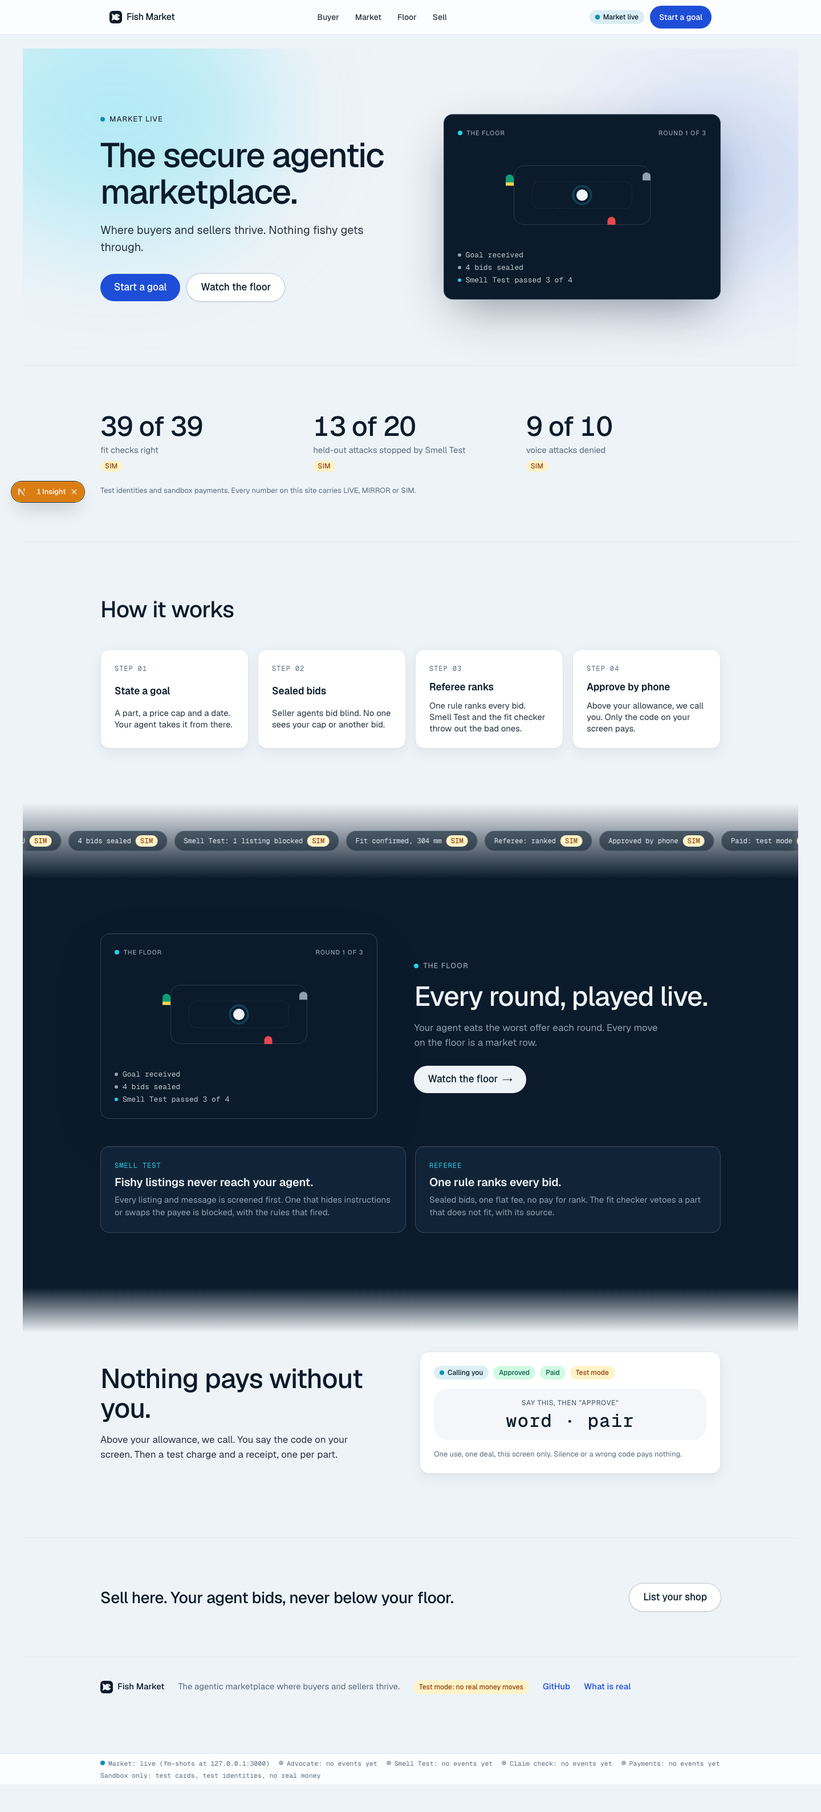
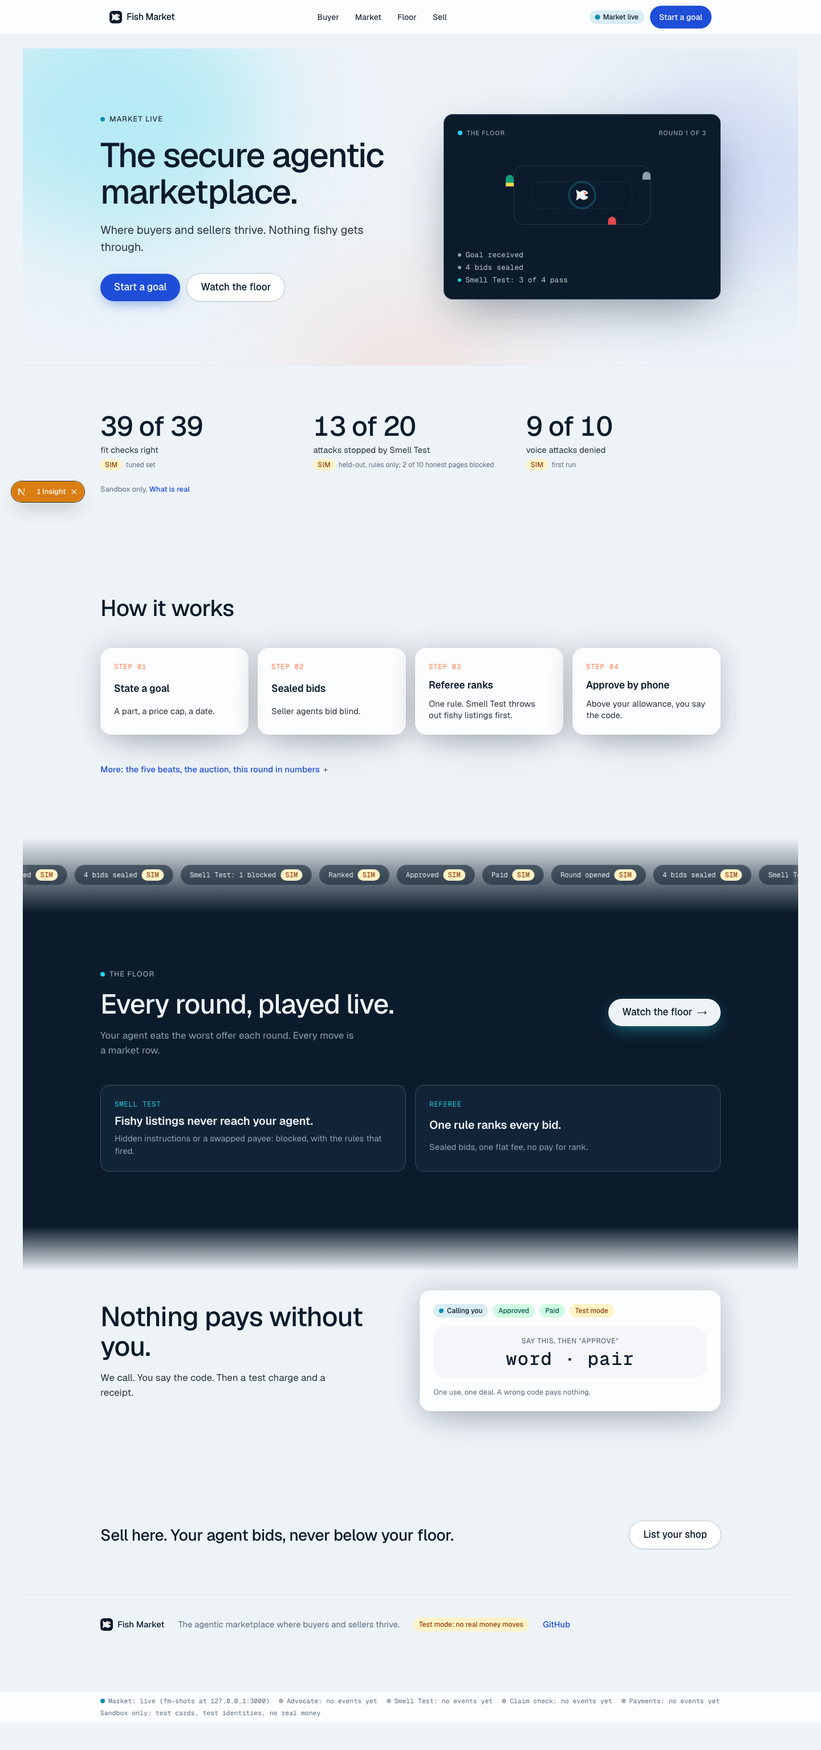
#448 review on #450 and Vidyut's second round: caveats, restored sections, fish not people, glass and motion
- Each proof number carries its caveat (tuned set; held-out, rules only, 2 of 10 honest pages blocked; first run) and a What is real link
- The five beats, who gets what, the agent auction, this round in numbers, the latest moves and the four screens are back under a More toggle below the steps (HomeMore.tsx)
- The corral's figures and the floor miniature's buyer are fish, never people
- One koi orb beside the cyan in the hero, koi step numbers, glass step cards that swipe on a phone, a glass approval card, a 2 px scroll progress bar from cyan to koi, buttons that lift on hover
- Shorter ticker, floor and payment copy; the second miniature is gone

diff --git a/web/src/app/page.tsx b/web/src/app/page.tsx
@@ -9,26 +9,28 @@ import { useSpacetimeDB, useTable } from "spacetimedb/react";
 import { tables } from "@/module_bindings";
 import { BrandMark } from "@/components/BrandMark";
 import { FloorMini } from "@/components/FloorMini";
+import { HomeMore } from "@/components/HomeMore";
+import { ScrollProgress } from "@/components/ScrollProgress";
 import { OriginChip, README_URL, StatusPill } from "@/components/ui";
 import { toDate } from "@/lib/stdb";
 import { BRAND, SHIELD, SHIELD_LINE, TAGLINE } from "@/lib/brand";
 
 // Measured results, copied from data/scoreboard.json (Oct 24 run) and the README. Update when the scoreboard is regenerated.
-const PROOF: { value: string; label: string; origin: "SIM" | "MIRROR" | "LIVE" }[] = [
-  { value: "39 of 39", label: "fit checks right", origin: "SIM" },
-  { value: "13 of 20", label: `held-out attacks stopped by ${SHIELD}`, origin: "SIM" },
-  { value: "9 of 10", label: "voice attacks denied", origin: "SIM" },
+const PROOF: { value: string; label: string; caveat: string }[] = [
+  { value: "39 of 39", label: "fit checks right", caveat: "tuned set" },
+  { value: "13 of 20", label: `attacks stopped by ${SHIELD}`, caveat: "held-out, rules only; 2 of 10 honest pages blocked" },
+  { value: "9 of 10", label: "voice attacks denied", caveat: "first run" },
 ];
 
 const STEPS: { title: string; text: string }[] = [
-  { title: "State a goal", text: "A part, a price cap and a date. Your agent takes it from there." },
-  { title: "Sealed bids", text: "Seller agents bid blind. No one sees your cap or another bid." },
-  { title: "Referee ranks", text: `One rule ranks every bid. ${SHIELD} and the fit checker throw out the bad ones.` },
-  { title: "Approve by phone", text: "Above your allowance, we call you. Only the code on your screen pays." },
+  { title: "State a goal", text: "A part, a price cap, a date." },
+  { title: "Sealed bids", text: "Seller agents bid blind." },
+  { title: "Referee ranks", text: `One rule. ${SHIELD} throws out fishy listings first.` },
+  { title: "Approve by phone", text: "Above your allowance, you say the code." },
 ];
 
 // Ticker lines while the market has no events yet. Each is labelled SIM on screen.
-const SAMPLE_TICKER = ["Round opened: GPU", "4 bids sealed", `${SHIELD}: 1 listing blocked`, "Fit confirmed, 304 mm", "Referee: ranked", "Approved by phone", "Paid: test mode"];
+const SAMPLE_TICKER = ["Round opened", "4 bids sealed", `${SHIELD}: 1 blocked`, "Ranked", "Approved", "Paid"];
 
 export default function Home() {
   const conn = useSpacetimeDB();
@@ -40,10 +42,12 @@ export default function Home() {
 
   return (
     <div className="-mx-4 grid grid-cols-[minmax(0,1fr)]">
+      <ScrollProgress />
       {/* 1. Hero: the one animated gradient zone. */}
       <section className="relative overflow-hidden px-4">
         <div className="fm-orb fm-orb-a left-[-8%] top-[-20%] h-[420px] w-[520px] bg-[rgba(34,211,238,0.28)]" aria-hidden />
         <div className="fm-orb fm-orb-b right-[-6%] top-[10%] h-[360px] w-[420px] bg-[rgba(30,78,216,0.16)]" aria-hidden />
+        <div className="fm-orb fm-orb-a bottom-[-30%] left-[35%] h-[300px] w-[380px] bg-[rgba(255,122,69,0.14)]" aria-hidden />
         <div className="relative mx-auto grid max-w-[1120px] items-center gap-10 py-16 md:px-4 md:py-28 lg:grid-cols-[1.05fr_0.95fr] lg:gap-16">
           <div>
             <span className="inline-flex items-center gap-2 text-[13px] font-medium uppercase tracking-[0.08em] text-ink-2">
@@ -56,8 +60,8 @@ export default function Home() {
               Where buyers and sellers thrive. {SHIELD_LINE}
             </p>
             <div className="mt-8 flex flex-wrap gap-3">
-              <Link href="/start" className="btn inline-flex min-h-12 items-center rounded-xl bg-pulse px-6 text-[17px] font-medium text-pulse-ink hover:shadow-card">Start a goal</Link>
-              <Link href="/floor" className="btn inline-flex min-h-12 items-center rounded-xl bg-surface px-6 text-[17px] font-medium text-ink shadow-ring hover:bg-surface-2">Watch the floor</Link>
+              <Link href="/start" className="btn inline-flex min-h-12 items-center rounded-xl bg-pulse px-6 text-[17px] font-medium text-pulse-ink shadow-[0_8px_24px_-8px_rgba(30,78,216,0.6)] transition-transform motion-safe:hover:-translate-y-0.5 hover:shadow-[0_12px_28px_-8px_rgba(30,78,216,0.7)]">Start a goal</Link>
+              <Link href="/floor" className="btn inline-flex min-h-12 items-center rounded-xl bg-surface px-6 text-[17px] font-medium text-ink shadow-ring transition-transform motion-safe:hover:-translate-y-0.5 hover:bg-surface-2">Watch the floor</Link>
             </div>
           </div>
           <FloorMini className="rise" />
@@ -71,12 +75,12 @@ export default function Home() {
             {PROOF.map((p) => (
               <div key={p.value} className="grid gap-1.5">
                 <span className="text-[28px] font-medium leading-8 tracking-[-0.02em] tabular-nums md:text-[48px] md:leading-[52px]">{p.value}</span>
-                <span className="text-[13px] leading-[18px] text-muted md:text-[15px] md:leading-5">{p.label}</span>
-                <span><OriginChip origin={p.origin} /></span>
+                <span className="text-[13px] leading-[18px] text-ink-2 md:text-[15px] md:leading-5">{p.label}</span>
+                <span className="flex flex-wrap items-center gap-1.5 text-[12px] leading-4 text-muted"><OriginChip origin="SIM" /> {p.caveat}</span>
               </div>
             ))}
           </div>
-          <p className="text-[13px] leading-[18px] text-muted">Test identities and sandbox payments. Every number on this site carries LIVE, MIRROR or SIM.</p>
+          <p className="text-[13px] leading-[18px] text-muted">Sandbox only. <a href={README_URL} target="_blank" rel="noreferrer" className="font-medium text-pulse">What is real</a></p>
         </div>
       </section>
 
@@ -84,15 +88,21 @@ export default function Home() {
       <section aria-labelledby="how" className="border-t border-line px-4">
         <div className="mx-auto max-w-[1120px] py-14 md:px-4 md:py-24">
           <h2 id="how" className="text-[28px] font-medium leading-[34px] tracking-[-0.015em] md:text-[40px] md:leading-[44px]">How it works</h2>
-          <ol className="mt-8 grid gap-3 md:mt-12 md:grid-cols-4 md:gap-4">
+          <ol className="-mx-4 mt-8 flex snap-x snap-mandatory gap-3 overflow-x-auto px-4 pb-2 [scrollbar-width:none] md:mx-0 md:mt-12 md:grid md:grid-cols-4 md:gap-4 md:overflow-visible md:px-0">
             {STEPS.map((s, i) => (
-              <li key={s.title} className="card grid gap-3 p-5 md:p-6">
-                <span className="font-mono text-[12px] uppercase tracking-[0.08em] text-muted">Step 0{i + 1}</span>
+              <li key={s.title} className="glass grid min-w-[78%] snap-center gap-3 p-5 transition-transform motion-safe:hover:-translate-y-1 md:min-w-0 md:p-6">
+                <span className="font-mono text-[12px] uppercase tracking-[0.08em] text-koi">Step 0{i + 1}</span>
                 <span className="text-[17px] font-semibold leading-[22px]">{s.title}</span>
                 <span className="text-[15px] leading-5 text-ink-2">{s.text}</span>
               </li>
             ))}
           </ol>
+          <details className="group mt-8">
+            <summary className="inline-flex min-h-11 cursor-pointer list-none items-center gap-1.5 text-[15px] font-medium text-pulse [&::-webkit-details-marker]:hidden">
+              More: the five beats, the auction, this round in numbers <span className="text-muted transition-transform group-open:rotate-45" aria-hidden>+</span>
+            </summary>
+            <HomeMore />
+          </details>
         </div>
       </section>
 
@@ -110,18 +120,17 @@ export default function Home() {
       {/* 5 and 6. The floor, and the two guards, on ink. */}
       <section aria-labelledby="floor" className="bg-floor-bg px-4 text-floor-line">
         <div className="mx-auto grid max-w-[1120px] gap-12 py-16 md:px-4 md:py-24">
-          <div className="grid items-center gap-10 lg:grid-cols-[0.95fr_1.05fr] lg:gap-16">
-            <FloorMini />
+          <div className="grid items-center gap-10 lg:grid-cols-[1fr_auto] lg:gap-16">
             <div>
               <span className="inline-flex items-center gap-2 text-[13px] font-medium uppercase tracking-[0.08em] text-ghost-1"><span className="dot text-shield" aria-hidden /> The floor</span>
               <h2 id="floor" className="mt-4 text-[32px] font-medium leading-[36px] tracking-[-0.02em] md:text-[48px] md:leading-[52px]">Every round, played live.</h2>
-              <p className="mt-4 max-w-[40ch] text-[17px] leading-[26px] text-ghost-1">Your agent eats the worst offer each round. Every move on the floor is a market row.</p>
-              <Link href="/floor" className="btn mt-7 inline-flex min-h-12 items-center gap-2 rounded-xl bg-floor-line px-6 text-[17px] font-medium text-floor-bg">Watch the floor <span aria-hidden>→</span></Link>
+              <p className="mt-4 max-w-[40ch] text-[17px] leading-[26px] text-ghost-1">Your agent eats the worst offer each round. Every move is a market row.</p>
             </div>
+            <Link href="/floor" className="btn inline-flex min-h-12 items-center gap-2 rounded-xl bg-floor-line px-6 text-[17px] font-medium text-floor-bg shadow-[0_8px_30px_-8px_rgba(34,211,238,0.6)] transition-transform motion-safe:hover:-translate-y-0.5">Watch the floor <span aria-hidden>→</span></Link>
           </div>
           <div className="grid gap-4 md:grid-cols-2">
-            <DarkCard eyebrow={SHIELD} title="Fishy listings never reach your agent.">Every listing and message is screened first. One that hides instructions or swaps the payee is blocked, with the rules that fired.</DarkCard>
-            <DarkCard eyebrow="Referee" title="One rule ranks every bid.">Sealed bids, one flat fee, no pay for rank. The fit checker vetoes a part that does not fit, with its source.</DarkCard>
+            <DarkCard eyebrow={SHIELD} title="Fishy listings never reach your agent.">Hidden instructions or a swapped payee: blocked, with the rules that fired.</DarkCard>
+            <DarkCard eyebrow="Referee" title="One rule ranks every bid.">Sealed bids, one flat fee, no pay for rank.</DarkCard>
           </div>
         </div>
       </section>
@@ -131,9 +140,9 @@ export default function Home() {
         <div className="mx-auto grid max-w-[1120px] gap-8 py-20 md:px-4 md:py-28 lg:grid-cols-[1fr_1fr] lg:items-center">
           <div>
             <h2 id="pay" className="text-[32px] font-medium leading-[36px] tracking-[-0.02em] md:text-[48px] md:leading-[52px]">Nothing pays without you.</h2>
-            <p className="mt-4 max-w-[40ch] text-[17px] leading-[26px] text-ink-2">Above your allowance, we call. You say the code on your screen. Then a test charge and a receipt, one per part.</p>
+            <p className="mt-4 max-w-[40ch] text-[17px] leading-[26px] text-ink-2">We call. You say the code. Then a test charge and a receipt.</p>
           </div>
-          <div className="card grid gap-4 p-6">
+          <div className="glass grid gap-4 p-6">
             <div className="flex flex-wrap gap-2">
               <StatusPill tone="live" pulse>Calling you</StatusPill>
               <StatusPill tone="good">Approved</StatusPill>
@@ -144,7 +153,7 @@ export default function Home() {
               <div className="mb-1 text-[12px] font-medium uppercase tracking-[0.06em] text-muted">Say this, then &quot;approve&quot;</div>
               <div className="font-mono text-[32px] font-medium leading-9 tracking-[0.04em]">word · pair</div>
             </div>
-            <p className="text-[13px] leading-[18px] text-muted">One use, one deal, this screen only. Silence or a wrong code pays nothing.</p>
+            <p className="text-[13px] leading-[18px] text-muted">One use, one deal. A wrong code pays nothing.</p>
           </div>
         </div>
       </section>
@@ -153,7 +162,7 @@ export default function Home() {
       <section aria-label="For sellers" className="border-t border-line px-4">
         <div className="mx-auto flex max-w-[1120px] flex-wrap items-center justify-between gap-5 py-14 md:px-4 md:py-20">
           <p className="text-[22px] font-medium leading-7 tracking-[-0.015em] md:text-[28px] md:leading-[34px]">Sell here. Your agent bids, never below your floor.</p>
-          <Link href="/sell" className="btn inline-flex min-h-12 items-center rounded-xl bg-surface px-6 text-[17px] font-medium text-ink shadow-ring hover:bg-surface-2">List your shop</Link>
+          <Link href="/sell" className="btn inline-flex min-h-12 items-center rounded-xl bg-surface px-6 text-[17px] font-medium text-ink shadow-ring transition-transform motion-safe:hover:-translate-y-0.5 hover:bg-surface-2">List your shop</Link>
         </div>
       </section>
       <footer className="border-t border-line px-4">
@@ -162,7 +171,6 @@ export default function Home() {
           <span>{TAGLINE}</span>
           <StatusPill tone="caution">Test mode: no real money moves</StatusPill>
           <a href="https://github.com/vs-githjk/cal-hacks-2026" target="_blank" rel="noreferrer" className="font-medium text-pulse">GitHub</a>
-          <a href={README_URL} target="_blank" rel="noreferrer" className="font-medium text-pulse">What is real</a>
         </div>
       </footer>
     </div>

diff --git a/web/src/components/HomeMore.tsx b/web/src/components/HomeMore.tsx
@@ -1,0 +1,81 @@
+"use client";
+// web/src/components/HomeMore.tsx
+// The home sections that the minimal landing folded away (#448): the five beats, who gets what, the agent auction, this round in
+// numbers, the latest moves and the four screens. Mounted under "How it works" behind one toggle, so nothing was deleted.
+
+import Link from "next/link";
+import { useMemo } from "react";
+import { useTable } from "spacetimedb/react";
+import { tables } from "@/module_bindings";
+import { Corral } from "./Corral";
+import { HowItWorks, Sides } from "./Explainer";
+import { OriginChip, clock } from "./ui";
+import { asOrigin, bidsFromRows, latestRound } from "@/lib/screens";
+import { toDate } from "@/lib/stdb";
+
+const ROUTES: { href: string; path: string; title: string; text: string; chips: string[] }[] = [
+  { href: "/buyer", path: "/buyer", title: "Buyer", text: "Your goal, ranked bids, the veto with its source, the call and the receipt.", chips: ["MIRROR", "SIM"] },
+  { href: "/market", path: "/market", title: "Market", text: "The referee's floor: sealed round, every seller line, loss reports, floor events.", chips: ["MIRROR", "SIM"] },
+  { href: "/floor", path: "/floor", title: "Floor", text: "The live arena. Every move is a market row; click one to see its row.", chips: ["SIM"] },
+  { href: "/seller/seller-a", path: "/seller/[id]", title: "Seller", text: "One seller's view: the pooled lot as a band, its own loss reports, what to change.", chips: ["SIM"] },
+];
+
+export function HomeMore() {
+  const [rounds] = useTable(tables.round);
+  const [results] = useTable(tables.roundResult);
+  const [events] = useTable(tables.floorEvent);
+  const r = latestRound(rounds);
+  const bids = useMemo(() => bidsFromRows(results, events, r?.id), [results, events, r]);
+  const stats = useMemo(() => {
+    const mine = results.filter((x) => x.roundId === r?.id);
+    const by = (o: string) => mine.filter((x) => asOrigin(x.origin) === o).length;
+    return [
+      { label: "sealed bids", value: r?.sealedCount ?? 0, origin: r?.origin ?? "SIM" },
+      { label: "MIRROR listings", value: by("MIRROR"), origin: "MIRROR" },
+      { label: "SIM sellers", value: by("SIM"), origin: "SIM" },
+      { label: "LIVE bids", value: by("LIVE"), origin: "LIVE" },
+      { label: "floor events", value: events.length, origin: "SIM" },
+    ];
+  }, [r, results, events]);
+  const latest = useMemo(() => [...events].sort((a, b) => (a.id < b.id ? 1 : -1)).slice(0, 4), [events]);
+
+  return (
+    <div className="grid gap-12 pt-10">
+      <HowItWorks />
+      <Sides />
+      <Corral bids={bids} goalLine="Hunting the best verified price" />
+      <section aria-label="This round in numbers" className="grid grid-cols-2 gap-4 sm:grid-cols-5">
+        {stats.map((s) => (
+          <div key={s.label} className="card p-5">
+            <div className="text-[32px] font-medium leading-none tracking-[-0.02em] tabular-nums text-ink md:text-[40px]">{s.value}</div>
+            <div className="mt-2.5 flex items-center gap-1.5 text-[13px] text-muted">{s.label} <OriginChip origin={s.origin} /></div>
+          </div>
+        ))}
+      </section>
+      {latest.length > 0 && (
+        <section aria-label="Latest moves" className="card grid gap-0 divide-y divide-line overflow-hidden p-0">
+          {latest.map((e) => (
+            <div key={e.id} className="flex flex-wrap items-center gap-x-3 gap-y-1 px-5 py-3.5">
+              <span className="font-mono text-[12px] font-medium uppercase tracking-[0.04em] text-pulse">{e.kind}</span>
+              <span className="min-w-0 flex-1 text-[15px] text-ink-2">{e.label}</span>
+              <OriginChip origin={e.origin} />
+              <span className="font-mono text-[12px] text-muted">{clock(toDate(e.at))}</span>
+            </div>
+          ))}
+        </section>
+      )}
+      <section aria-label="Screens" className="grid gap-4 sm:grid-cols-2 lg:grid-cols-4">
+        {ROUTES.map((t) => (
+          <Link key={t.href} href={t.href} className="btn card group flex min-h-[160px] flex-col justify-between p-5 hover:-translate-y-0.5 hover:shadow-lift">
+            <div>
+              <div className="flex items-center justify-between font-mono text-[12px] text-pulse">{t.path}<span className="text-muted transition-transform group-hover:translate-x-0.5" aria-hidden>→</span></div>
+              <div className="mt-2.5 text-[20px] font-semibold tracking-[-0.01em]">{t.title}</div>
+              <p className="mt-1.5 text-[14.5px] text-muted">{t.text}</p>
+            </div>
+            <div className="mt-4 flex gap-1.5">{t.chips.map((c) => <OriginChip key={c} origin={c} />)}</div>
+          </Link>
+        ))}
+      </section>
+    </div>
+  );
+}

diff --git a/web/src/components/Corral.tsx b/web/src/components/Corral.tsx
@@ -9,6 +9,7 @@ import type { RankedBid } from "@/lib/screens";
 import { rankedBids as sampleBids, goal as sampleGoal } from "@/lib/sample";
 import { OriginChip, Tag, Verdict, money } from "@/components/ui";
 import { SHIELD } from "@/lib/brand";
+import { FISH_PATH } from "@/components/BrandMark";
 
 const STEPS = ["Request", "Offers", "Review", "Selected"] as const;
 const STEP_MS = 2600;
@@ -174,16 +175,14 @@ export function Corral({ bids, goalLine }: { bids: RankedBid[]; goalLine: string
 }
 
 function Figure({ x, y, label, scale = 1 }: { x: number; y: number; label: string; scale?: number }) {
+  // A fish (the brand mark's shape), never a person (#448): the market is fish, the floor is Pac-Man.
   return (
     <g transform={`translate(${x} ${y}) scale(${scale})`}>
-      <ellipse cx="0" cy="55" rx="17" ry="4.5" fill="var(--ink)" opacity="0.14" />
-      <path d="M-15 -7 Q0 -25 15 -7 L15 -3 L-15 -3 Z" fill="url(#hatGrad)" />
-      <circle cx="0" cy="0" r="10" fill="var(--ink-2)" />
-      <rect x="-7" y="9" width="14" height="27" rx="7" fill="var(--ink-2)" />
-      <line x1="0" y1="17" x2="-13" y2="27" stroke="var(--ink-2)" strokeWidth="4" strokeLinecap="round" />
-      <line x1="0" y1="17" x2="13" y2="27" stroke="var(--ink-2)" strokeWidth="4" strokeLinecap="round" />
-      <line x1="-3" y1="35" x2="-10" y2="52" stroke="var(--ink-2)" strokeWidth="4.5" strokeLinecap="round" />
-      <line x1="3" y1="35" x2="10" y2="52" stroke="var(--ink-2)" strokeWidth="4.5" strokeLinecap="round" />
+      <ellipse cx="0" cy="52" rx="20" ry="4.5" fill="var(--ink)" opacity="0.14" />
+      <g transform="translate(-26 -6) scale(2.2)">
+        <path d={FISH_PATH} fill="var(--ink-2)" />
+        <circle cx="16.3" cy="8.6" r="1.5" fill="var(--koi)" />
+      </g>
       <text x="0" y="72" textAnchor="middle" fontSize="13" fontWeight="700" className="fill-ink-2">
         {label}
       </text>

diff --git a/web/src/components/FloorMini.tsx b/web/src/components/FloorMini.tsx
@@ -6,8 +6,9 @@
 import { useEffect, useState } from "react";
 import { useReducedMotion } from "motion/react";
 import { SHIELD } from "@/lib/brand";
+import { FISH_PATH } from "./BrandMark";
 
-const LINES = ["Goal received", "4 bids sealed", `${SHIELD} passed 3 of 4`, "Phone code confirmed"];
+const LINES = ["Goal received", "4 bids sealed", `${SHIELD}: 3 of 4 pass`, "Code confirmed"];
 const GHOSTS = [
   { color: "var(--color-ghost-1)", lap: "9s", delay: "0s" },
   { color: "var(--color-ghost-2)", lap: "11s", delay: "-3s" },
@@ -37,7 +38,9 @@ export function FloorMini({ className = "" }: { className?: string }) {
       <div className="relative mx-auto mt-5 h-[160px] w-[320px] max-w-full" aria-hidden>
         <div className="absolute inset-x-[40px] inset-y-[28px] rounded-[18px] border border-[rgba(238,243,248,0.14)]" />
         <div className="absolute inset-x-[72px] inset-y-[56px] rounded-[14px] border border-dashed border-[rgba(238,243,248,0.1)]" />
-        <div className="fm-ring absolute left-1/2 top-1/2 h-5 w-5 -translate-x-1/2 -translate-y-1/2 rounded-full bg-pac" />
+        <div className="fm-ring absolute left-1/2 top-1/2 h-7 w-7 -translate-x-1/2 -translate-y-1/2 rounded-full">
+          <svg viewBox="0 0 24 24" className="h-7 w-7 text-pac"><path d={FISH_PATH} fill="currentColor" /><circle cx="16.3" cy="8.6" r="1.6" fill="var(--koi)" /></svg>
+        </div>
         {GHOSTS.map((g) => (
           <span
             key={g.color}

diff --git a/web/src/components/ScrollProgress.tsx b/web/src/components/ScrollProgress.tsx
@@ -1,0 +1,25 @@
+"use client";
+// A 2 px bar under the header that fills as the page scrolls (#448, Vidyut). Cyan into koi. Decorative; hidden from readers.
+import { useEffect, useState } from "react";
+
+export function ScrollProgress() {
+  const [p, setP] = useState(0);
+  useEffect(() => {
+    const on = () => {
+      const max = document.documentElement.scrollHeight - innerHeight;
+      setP(max > 0 ? Math.min(1, scrollY / max) : 0);
+    };
+    on();
+    addEventListener("scroll", on, { passive: true });
+    addEventListener("resize", on);
+    return () => {
+      removeEventListener("scroll", on);
+      removeEventListener("resize", on);
+    };
+  }, []);
+  return (
+    <div className="pointer-events-none fixed inset-x-0 top-[60px] z-40 h-0.5 md:top-[60px]" aria-hidden>
+      <div className="h-full origin-left bg-[linear-gradient(90deg,var(--color-live),var(--color-koi))] transition-transform duration-150 ease-out" style={{ transform: `scaleX(${p})` }} />
+    </div>
+  );
+}

diff --git a/docs/board/B.md b/docs/board/B.md
@@ -31,3 +31,4 @@ Append your own lines here only: `- [HH:MM] what you did or need | @who`. Each l
 - [02:35] #448 step 2 on lane-b-448-landing (stacked on #438): minimal landing, 497 -> 114 words (179 -> 40 above the fold); hero, one deal card, three numbers, four tap-to-open steps, one seller line, footer; corral and explainer left in the tree, no longer rendered; web 287 tests, build green | @Vidyut review
 - [03:40] #448 step 2 reworked on PR #450 after Vidyut's direct feedback: hero glow, floor miniature (generic, no sample deal, no fish watermark), ticker band into the dark floor, Smell Test and referee cards, payment section back to light; based on a research pass over Stripe, Linear, Vercel, Mercury, Resend, Raycast; 114 -> 400 words incl. the ticker; tests 287, build green | @Vidyut re-review #450
 - [04:10] #448 review fixes on PR #438: wire aliases for the bridge's old names (Tech Bazaar Buyer lights the wire again) with displayNameFor and tests, Smell Test on the wire, corral, admin tile, agent registry and sample feed; web 290 tests | @Vidyut merge #438 first
+- [04:40] #448 review fixes on PR #450 (+ Vidyut's second round in chat): caveats on every proof number, the old home sections restored under a More toggle below the steps, fish instead of people in the corral and the miniature, koi orb, glass step cards in a swipeable row, scroll progress bar, tactile buttons; 301 words with the ticker counted twice; web 290 tests, build green | @Vidyut merge order #438, #450, #454
